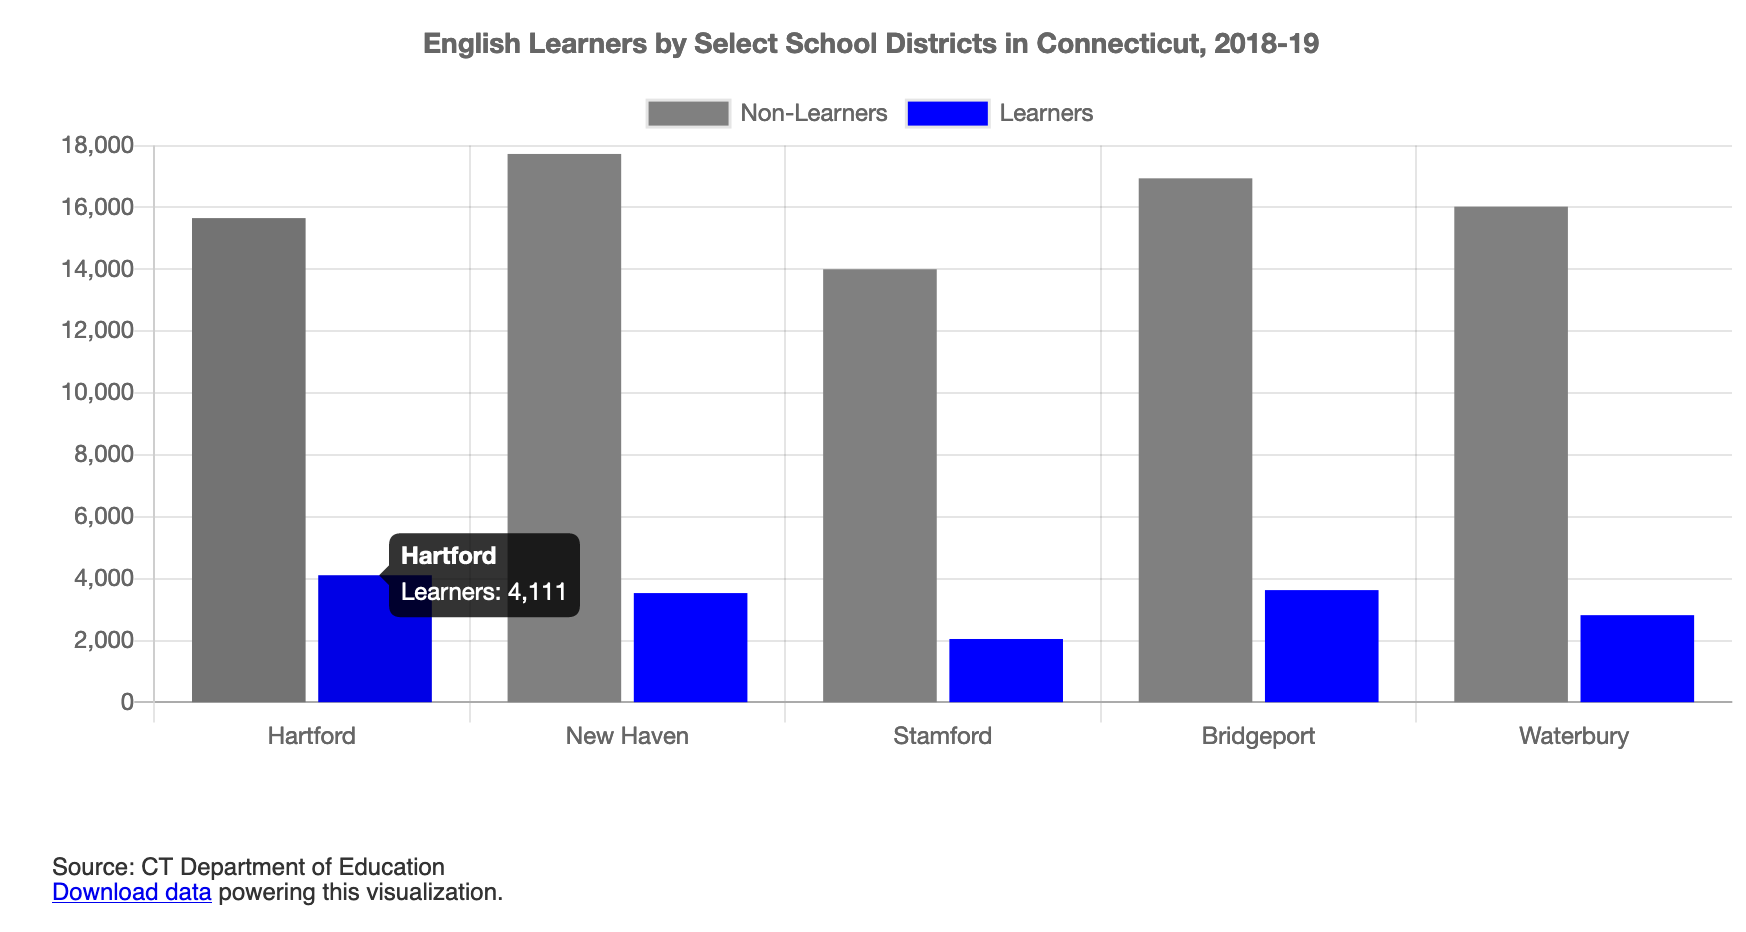
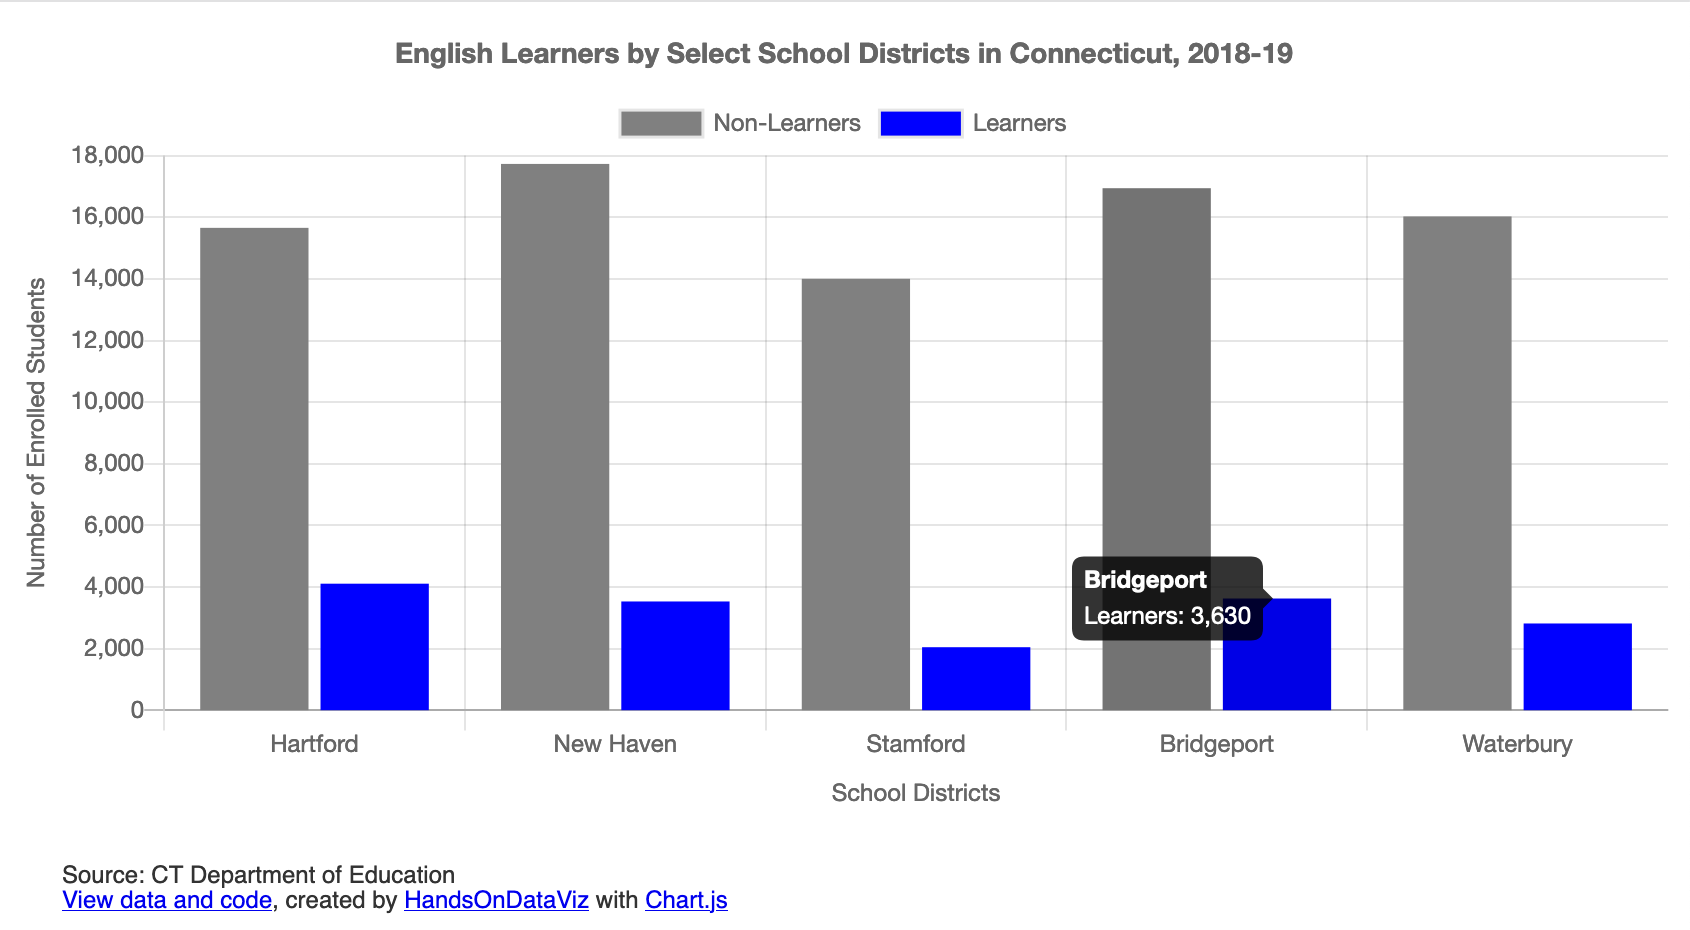
Modify credit line, update screenshot

diff --git a/index.html b/index.html
@@ -23,7 +23,9 @@
     <p style="font-family: Helvetica; color: #333; padding: 1em 2em; font-size: 12px">
       Source: CT Department of Education
       <br>
-      <a href="./data.csv">Download data</a> powering this visualization.
+      <a href="https://github.com/HandsOnDataViz/chartjs-bar">View data and code</a>,
+      created by <a href="https://handsondataviz.org/">HandsOnDataViz</a>
+      with <a href="https://www.chartjs.org/">Chart.js</a>
     </p>
 
     <script src="script.js"></script>
